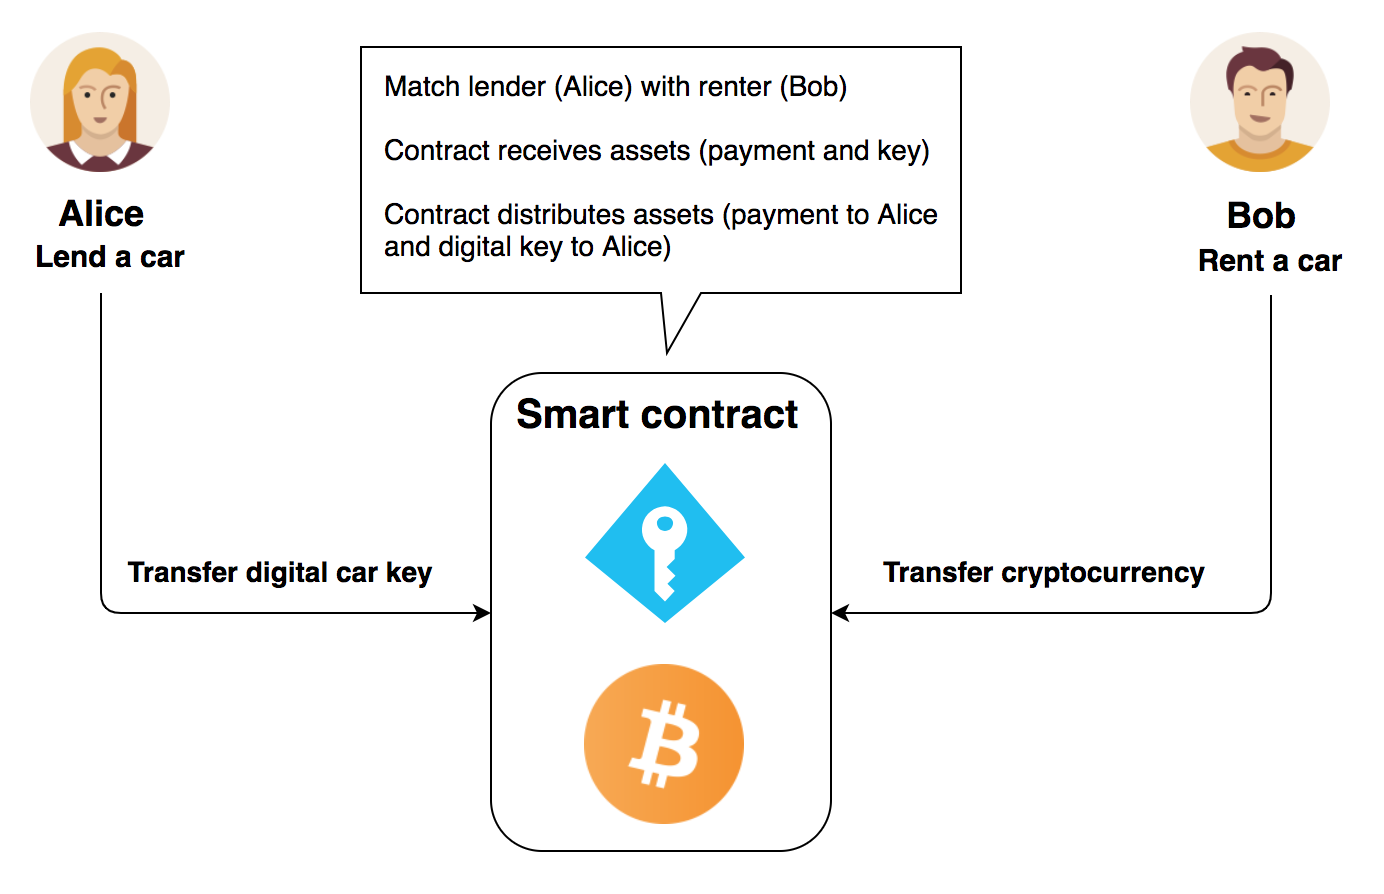
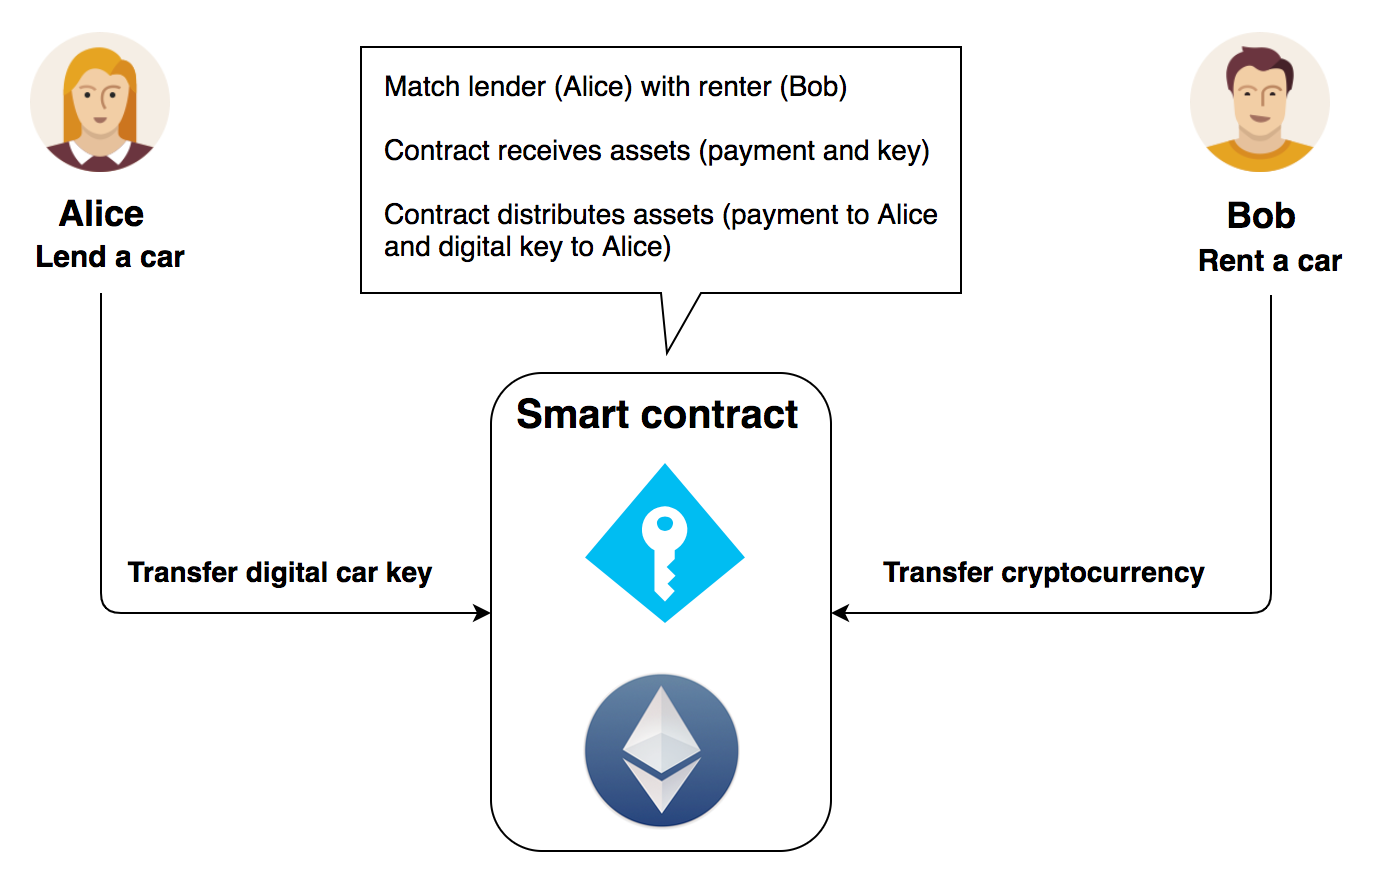
Update ETH to BTC on images. Add info about oracles and gas usage. Adjust transitions.

Changed region(s): [[0.4039, 0.7248, 0.5592, 0.9362], [0.4039, 0.5134, 0.5592, 0.6946]]

diff --git a/lesson-2/index.html b/lesson-2/index.html
@@ -41,11 +41,10 @@
 					<h2>Pros</h2>
 					
 					<ul>
-						<li>Code behaves in expected ways and doesn’t have the linguistic nuances of human languages.</li>
+						<li class="fragment">Code behaves in expected ways and doesn’t have the linguistic nuances of human languages.</li>
 						<li class="fragment">Code is replicated on many computers giving contract security and immutability.</li>
 						<li class="fragment">Smart contract can be verified on a public ledger.</li>
 						<li class="fragment">Fewer intermediaries.</li>
-						<li class="fragment">Useful for trustless systems where you have multiple parties that do not trust each other 100%.</li>
 					</ul>
 				</section>
 
@@ -53,8 +52,9 @@
 					<h2>Cons</h2>
 					
 					<ul>
-						<li class="fragment">In some cases a trusted entity (an oracle) is still required to make smart contracts work.</li>
+						<li class="fragment">In some cases a trusted entity (an oracle) is still required to make smart contracts work. Mostly applies to situations where real-life data is required i.e. damage report.</li>
 						<li class="fragment">Unable to hide confidential data. For example, if 10 banks set up a blockchain together, and 2 banks made a bilateral transaction, it will be immediately obvious to other 8 banks.</li>
+						<li class="fragment">Needs gas (Ethereum) to run. If contract runs out of gas, all the work gets reverted.</li>
 					</ul>
 				</section>
 
@@ -66,9 +66,9 @@
 					<section>
 						<h2>Financial services</h2>
 						<ul>
-							<li>Insurance</li>
-							<li>Trade clearing</li>
-							<li>Settlement</li>
+							<li class="fragment">Insurance</li>
+							<li class="fragment">Trade clearing</li>
+							<li class="fragment">Settlement</li>
 						</ul>
 
 						<div>
@@ -79,9 +79,9 @@
 					<section>
 						<h2>Health care</h2>
 						<ul>
-							<li>Electronic medical records</li>
-							<li>Population health data access</li>
-							<li>Personal health tracking</li>
+							<li class="fragment">Electronic medical records</li>
+							<li class="fragment">Population health data access</li>
+							<li class="fragment">Personal health tracking</li>
 						</ul>
 
 						<div>
@@ -92,7 +92,7 @@
 					<section>
 						<h2>Entertainment</h2>
 						<ul>
-							<li>Royalty distributions</li>
+							<li class="fragment">Royalty distributions</li>
 						</ul>
 						<div>
 							<img style="max-height: 350px; margin-top: 45px;" src="../img/application-entertainment.jpg" />
@@ -102,7 +102,7 @@
 					<section>
 						<h2>Energy and resources</h2>
 						<ul>
-							<li>Autonomous electric vehicle charging stations</li>
+							<li class="fragment">Autonomous electric vehicle charging stations</li>
 						</ul>
 						<div>
 							<img style="max-height: 350px; margin-top: 30px;" src="../img/application-energy.jpg" />
@@ -112,7 +112,7 @@
 					<section>
 						<h2>Logistics</h2>
 						<ul>
-							<li>Supply chain record keeping</li>
+							<li class="fragment">Supply chain record keeping</li>
 						</ul>
 						<div>
 							<img style="max-height: 350px; margin-top: 30px;" src="../img/application-logistics.jpg" />
@@ -122,9 +122,9 @@
 					<section>
 						<h2>P2P transacting</h2>
 						<ul>
-							<li>Lending</li>
-							<li>Insurance</li>
-							<li>Energy credits</li>
+							<li class="fragment">Lending</li>
+							<li class="fragment">Insurance</li>
+							<li class="fragment">Energy credits</li>
 						</ul>
 						<div>
 							<img style="max-height: 350px; margin-top: 30px;" src="../img/application-p2p.jpg" />
@@ -134,9 +134,9 @@
 					<section>
 						<h2>Others</h2>
 						<ul>
-							<li>Voting</li>
-							<li>Crowdfunding</li>
-							<li>Forecasting</li>
+							<li class="fragment">Voting</li>
+							<li class="fragment">Crowdfunding</li>
+							<li class="fragment">Forecasting</li>
 						</ul>
 						<div>
 							<img style="max-height: 350px; margin-top: 30px;" src="../img/application-voting.jpg" />
